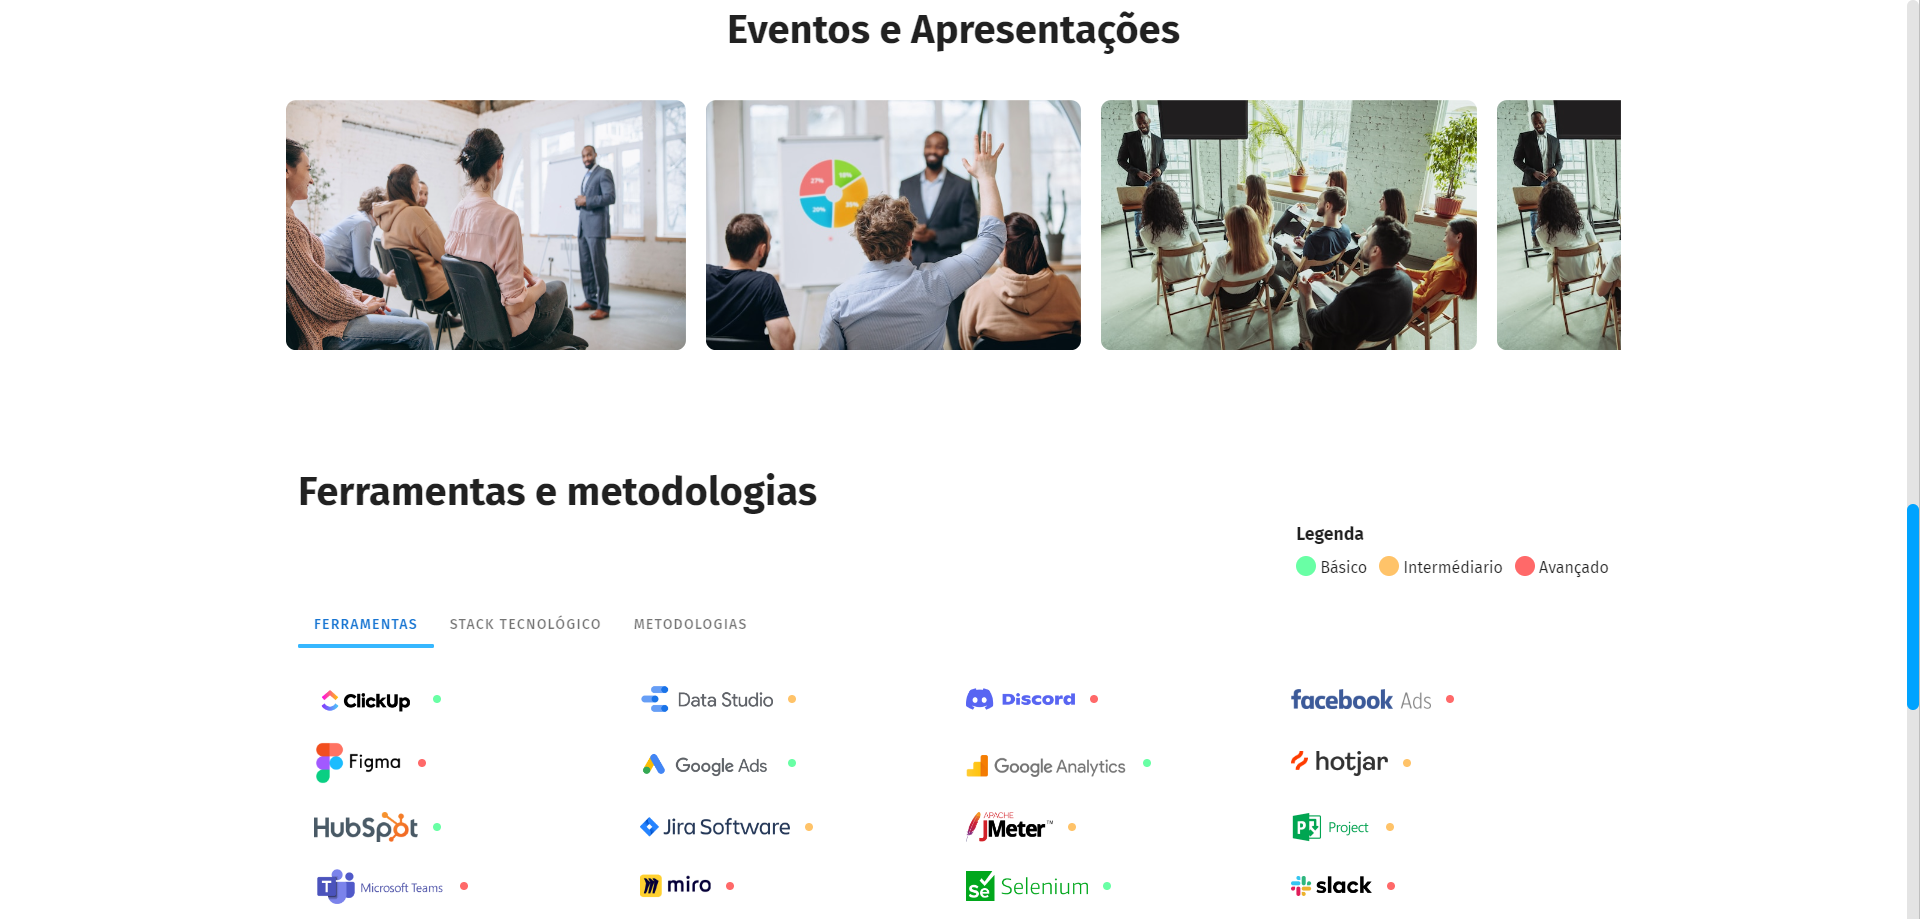
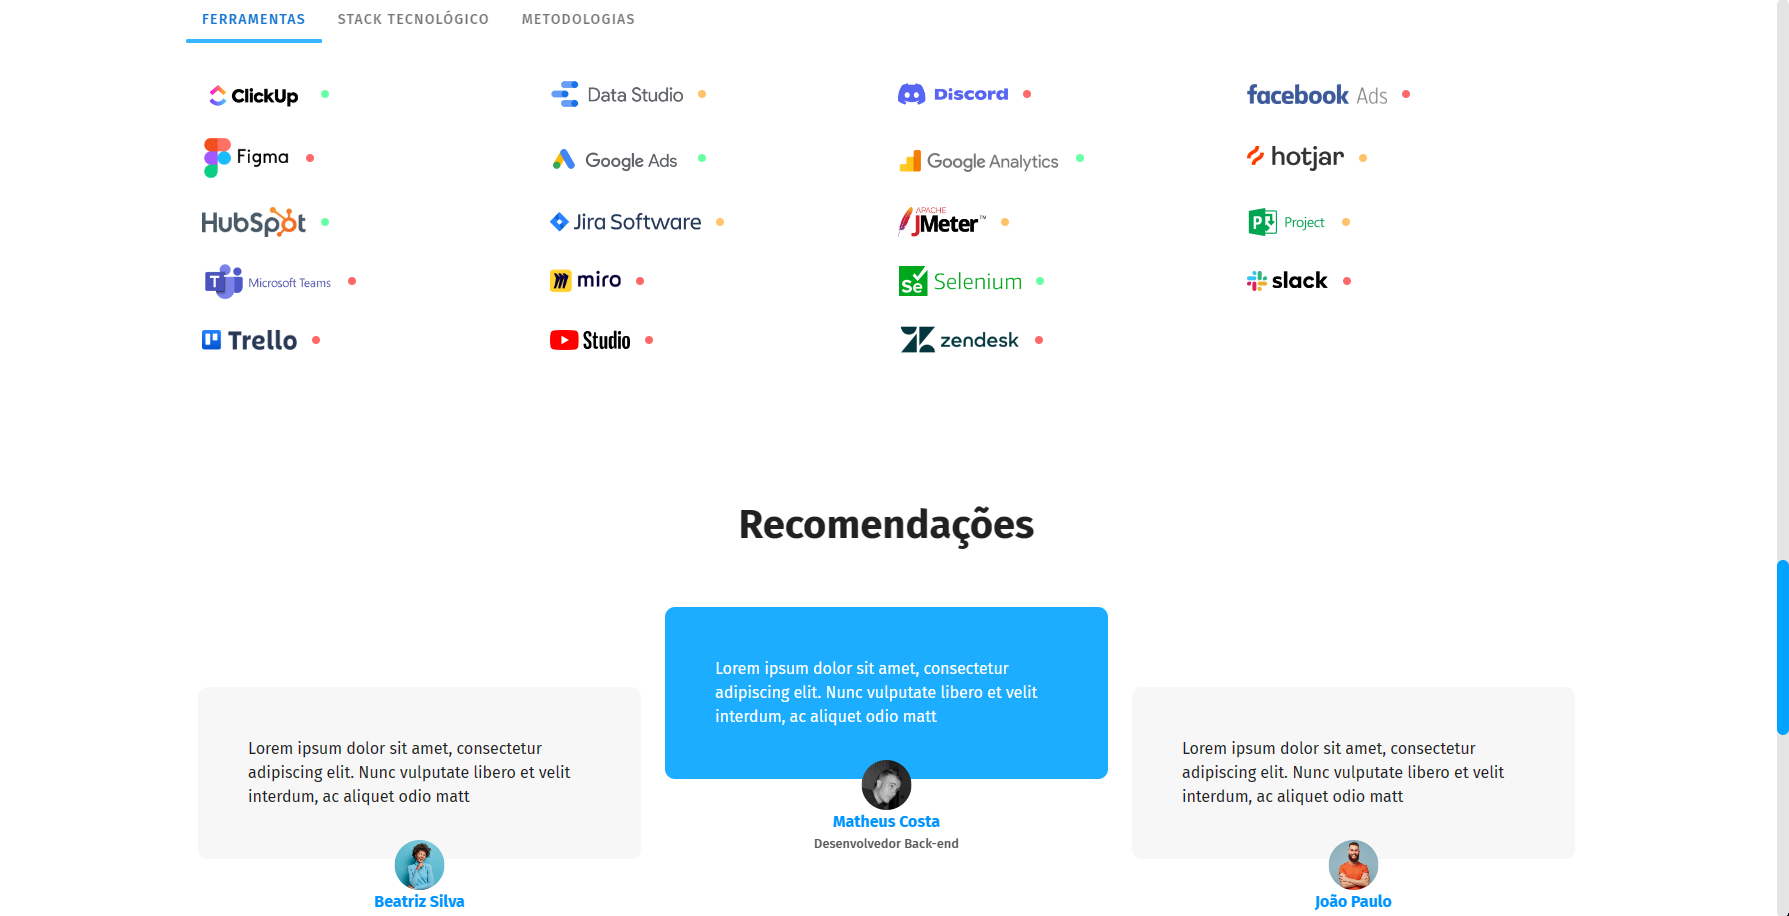
refactor:ajustes

diff --git a/src/components/main/SectionRecommendations.vue b/src/components/main/SectionRecommendations.vue
@@ -43,7 +43,7 @@ export default {
         {
           name: "Matheus Costa",
           position: "Desenvolvedor Back-end",
-          avatar: "https://cdn.vuetifyjs.com/images/john.jpg",
+          avatar: "/static/users/user3.jpg",
         },
       ],
       interval: null,
